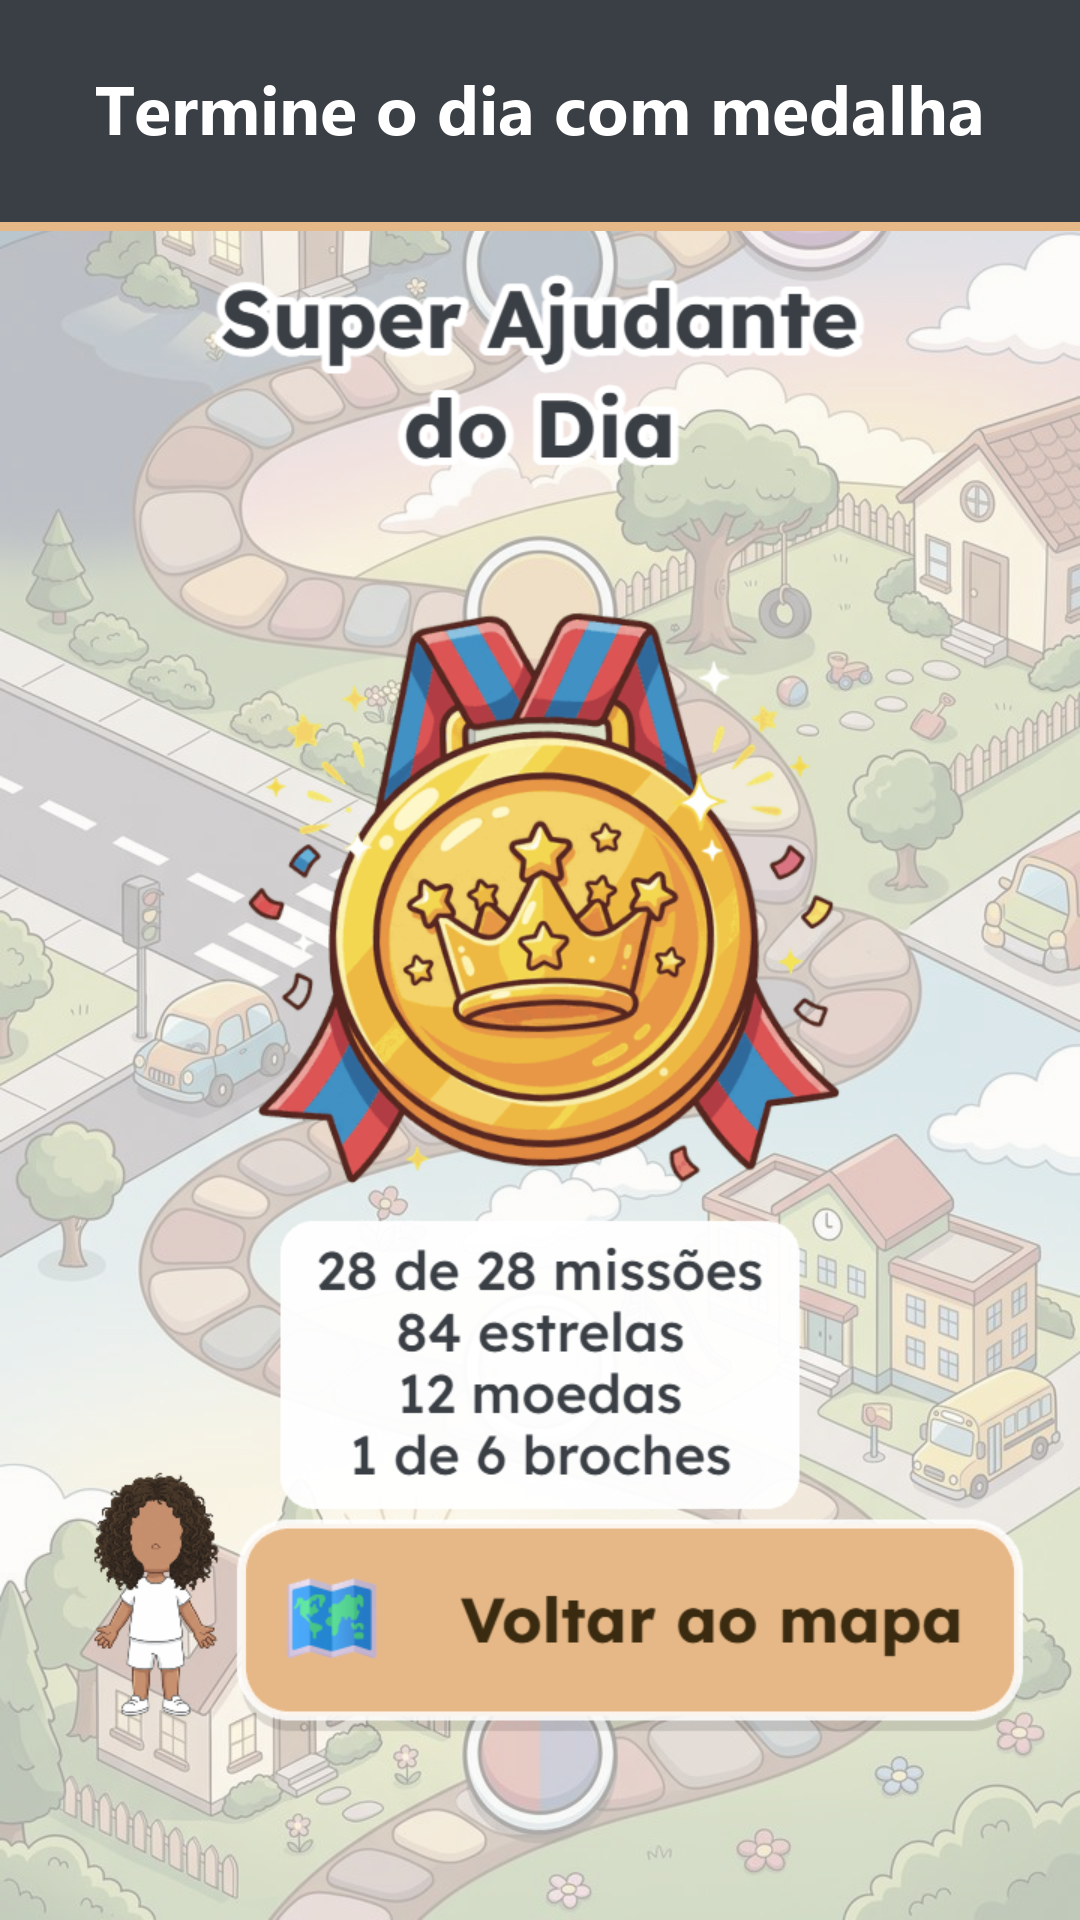
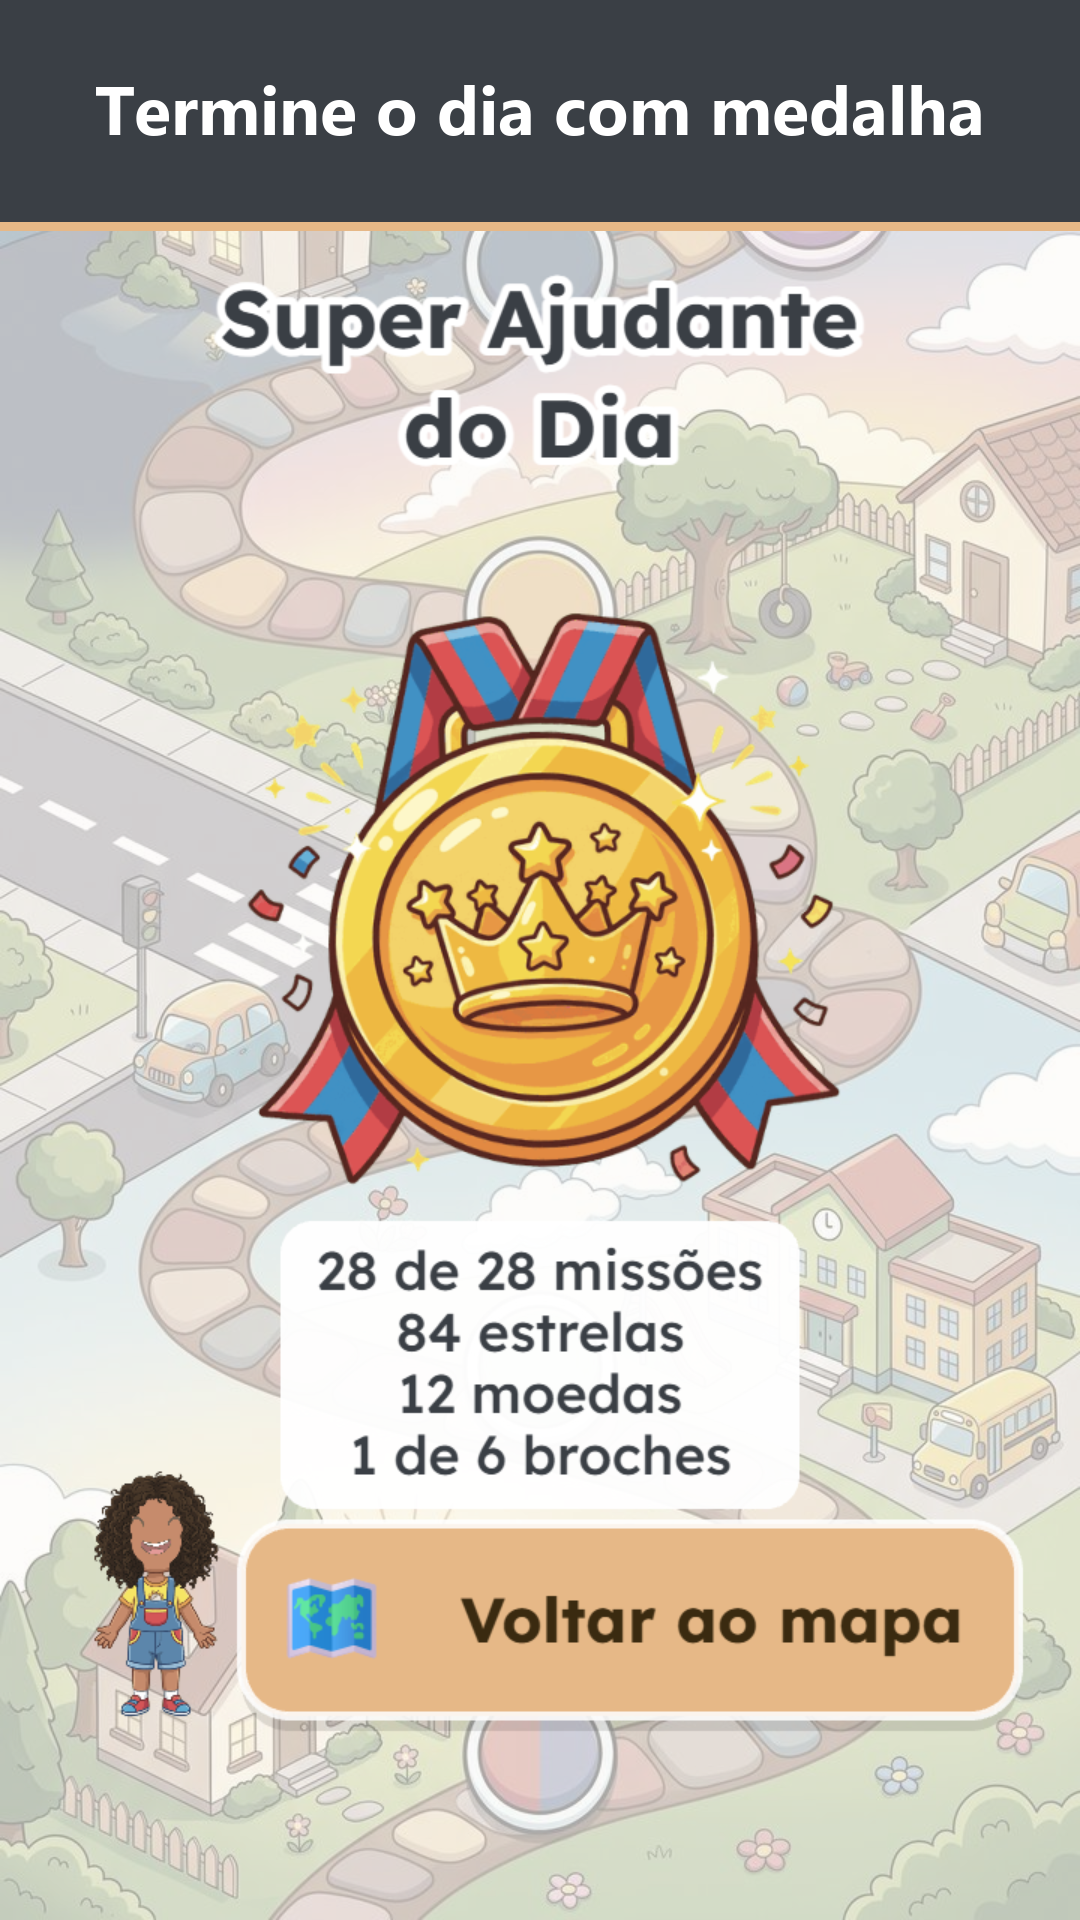
Olhos redondos de volta, agora com boca
A peca antiga tinha so olhos e sobrancelhas, e desde que a boca desenhada no
corpo saiu ela deixava a crianca sem boca. A nova traz os tres -- sobrancelhas,
olhos redondos e um sorriso fechado -- nas posicoes de um rosto. Sao quatro
opcoes de rosto de novo.

diff --git a/tools/preparar_assets.py b/tools/preparar_assets.py
@@ -44,9 +44,7 @@ CABELOS = [
     "menino_espetado", "menino_tigelinha", "menino_raspado", "menino_degrade", "menino_risco",
     "menino_moicano",
 ]
-# "redondos" ficou de fora: e a unica peca so com olhos, e desde que a boca
-# desenhada no corpo saiu, ela deixaria a crianca sem boca. Volta refeita.
-OLHOS = ["alegres", "grandes", "sorriso"]
+OLHOS = ["redondos", "alegres", "grandes", "sorriso"]
 
 # Roupas: sufixo da chave no jogo -> arquivo cru (corpo inteiro vestido, no
 # mesmo enquadramento do corpo base). Tem que bater com ROUPAS de
